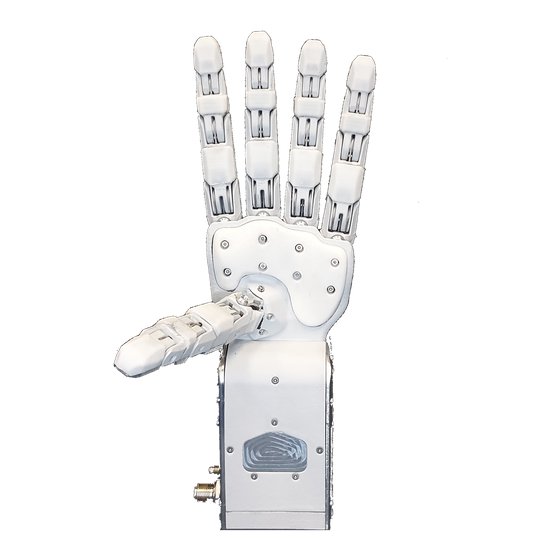
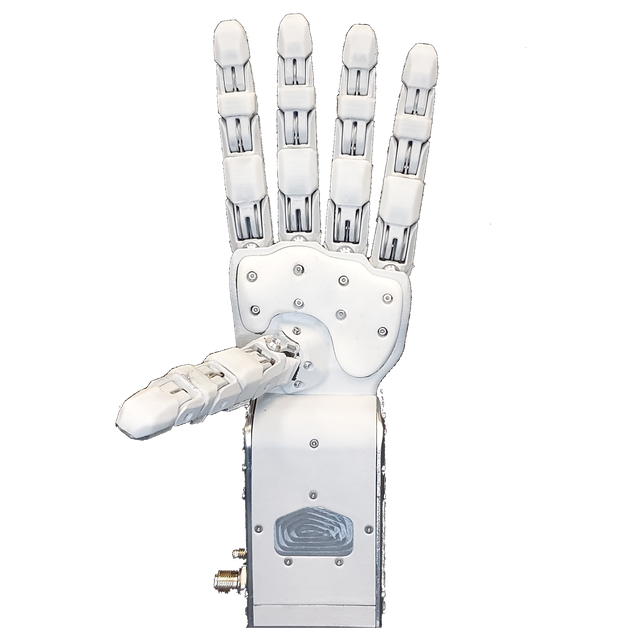
Make experience cards fully clickable with full-height images
The thumbnails were a small fixed square against a much taller text
block. Stretch the media column to the height of the text beside it at
a fixed 190px width, and re-crop both sources square so cover scales
them without distortion or meaningful cropping. Below 560px the column
goes back to a small square pinned to the top, where there is no room
beside the text.

Wrap each card in a single anchor to the company site, which means the
media wrapper drops to a div since anchors cannot nest, and the card
picks up the same lift-and-glow hover as the project cards.

Changed region(s): [[0.1821, 0.0304, 0.6982, 1.0], [0.5161, 0.4857, 0.5464, 0.5161], [0.4857, 0.6679, 0.5161, 0.6982]]

diff --git a/index.html b/index.html
@@ -128,10 +128,10 @@
 
       <div class="experience-list">
 
-        <article class="role">
-          <a class="role-media" href="https://sanctuary.ai/" target="_blank" rel="noopener" aria-label="Sanctuary AI">
+        <a class="role" href="https://sanctuary.ai/" target="_blank" rel="noopener">
+          <div class="role-media">
             <img src="assets/img/companies/sanctuary-ai.jpg" alt="Sanctuary AI hydraulic robot hand mounted on a robotic arm" loading="lazy" />
-          </a>
+          </div>
           <div class="role-content">
             <div class="role-head">
               <div class="role-id">
@@ -147,12 +147,12 @@
               <li><strong>Benchmarked real-time control paths across computing architectures</strong>, isolating DDS middleware latency to optimize the hand controller's network topology.</li>
             </ul>
           </div>
-        </article>
+        </a>
 
-        <article class="role">
-          <a class="role-media" href="https://sanctuary.ai/" target="_blank" rel="noopener" aria-label="Sanctuary AI">
+        <a class="role" href="https://sanctuary.ai/" target="_blank" rel="noopener">
+          <div class="role-media">
             <img src="assets/img/companies/sanctuary-ai.jpg" alt="Sanctuary AI hydraulic robot hand mounted on a robotic arm" loading="lazy" />
-          </a>
+          </div>
           <div class="role-content">
             <div class="role-head">
               <div class="role-id">
@@ -167,12 +167,12 @@
               <li><strong>Developed a full-stack tactile data pipeline</strong> (firmware, EtherCAT master and slave, and a ROS 2 bridge) to stream sensor data and enable live teleoperation haptics.</li>
             </ul>
           </div>
-        </article>
+        </a>
 
-        <article class="role">
-          <a class="role-media" href="https://sarcomeredynamics.com/home" target="_blank" rel="noopener" aria-label="Sarcomere Dynamics">
+        <a class="role" href="https://sarcomeredynamics.com/home" target="_blank" rel="noopener">
+          <div class="role-media">
             <img src="assets/img/companies/sarcomere-dynamics.png" alt="A white dexterous robotic hand built by Sarcomere Dynamics" loading="lazy" />
-          </a>
+          </div>
           <div class="role-content">
             <div class="role-head">
               <div class="role-id">
@@ -187,7 +187,7 @@
               <li><strong>Reduced motor size by 30% and improved accuracy</strong> by replacing Hall effect sensors with a magnetic sensor and current sensing.</li>
             </ul>
           </div>
-        </article>
+        </a>
 
       </div>
     </div>

diff --git a/styles.css b/styles.css
@@ -757,17 +757,25 @@ img { max-width: 100%; display: block; }
 }
 .role {
   display: flex;
-  gap: 18px;
+  gap: 20px;
   padding: 18px 20px;
   border: 1px solid var(--border);
   border-radius: var(--radius);
   background: var(--surface);
+  text-decoration: none;
+  color: inherit;
+  transition: transform 0.2s ease, border-color 0.2s ease;
 }
+.role:hover {
+  transform: translateY(-3px);
+  border-color: rgba(110, 231, 183, 0.4);
+}
+/* Stretches to the height of the text block beside it. The sources are
+   square, so a square-ish column scales them without distorting. */
 .role-media {
   flex: 0 0 auto;
-  display: block;
-  width: 72px;
-  height: 72px;
+  align-self: stretch;
+  width: 190px;
   border-radius: 9px;
   overflow: hidden;
   border: 1px solid var(--border);
@@ -779,7 +787,7 @@ img { max-width: 100%; display: block; }
   object-fit: cover;
   transition: transform 0.3s ease;
 }
-.role-media:hover img { transform: scale(1.06); }
+.role:hover .role-media img { transform: scale(1.05); }
 .role-content { flex: 1 1 auto; min-width: 0; }
 .role-head {
   display: flex;
@@ -825,9 +833,13 @@ img { max-width: 100%; display: block; }
   color: var(--text);
   font-weight: 600;
 }
+@media (max-width: 860px) {
+  .role-media { width: 140px; }
+}
 @media (max-width: 560px) {
-  .role { padding: 16px; gap: 13px; }
-  .role-media { width: 54px; height: 54px; }
+  .role { padding: 16px; gap: 14px; }
+  /* Too narrow to sit beside the text: pin a small square to the top. */
+  .role-media { align-self: flex-start; width: 68px; height: 68px; }
   .role-meta { text-align: left; }
 }
 
